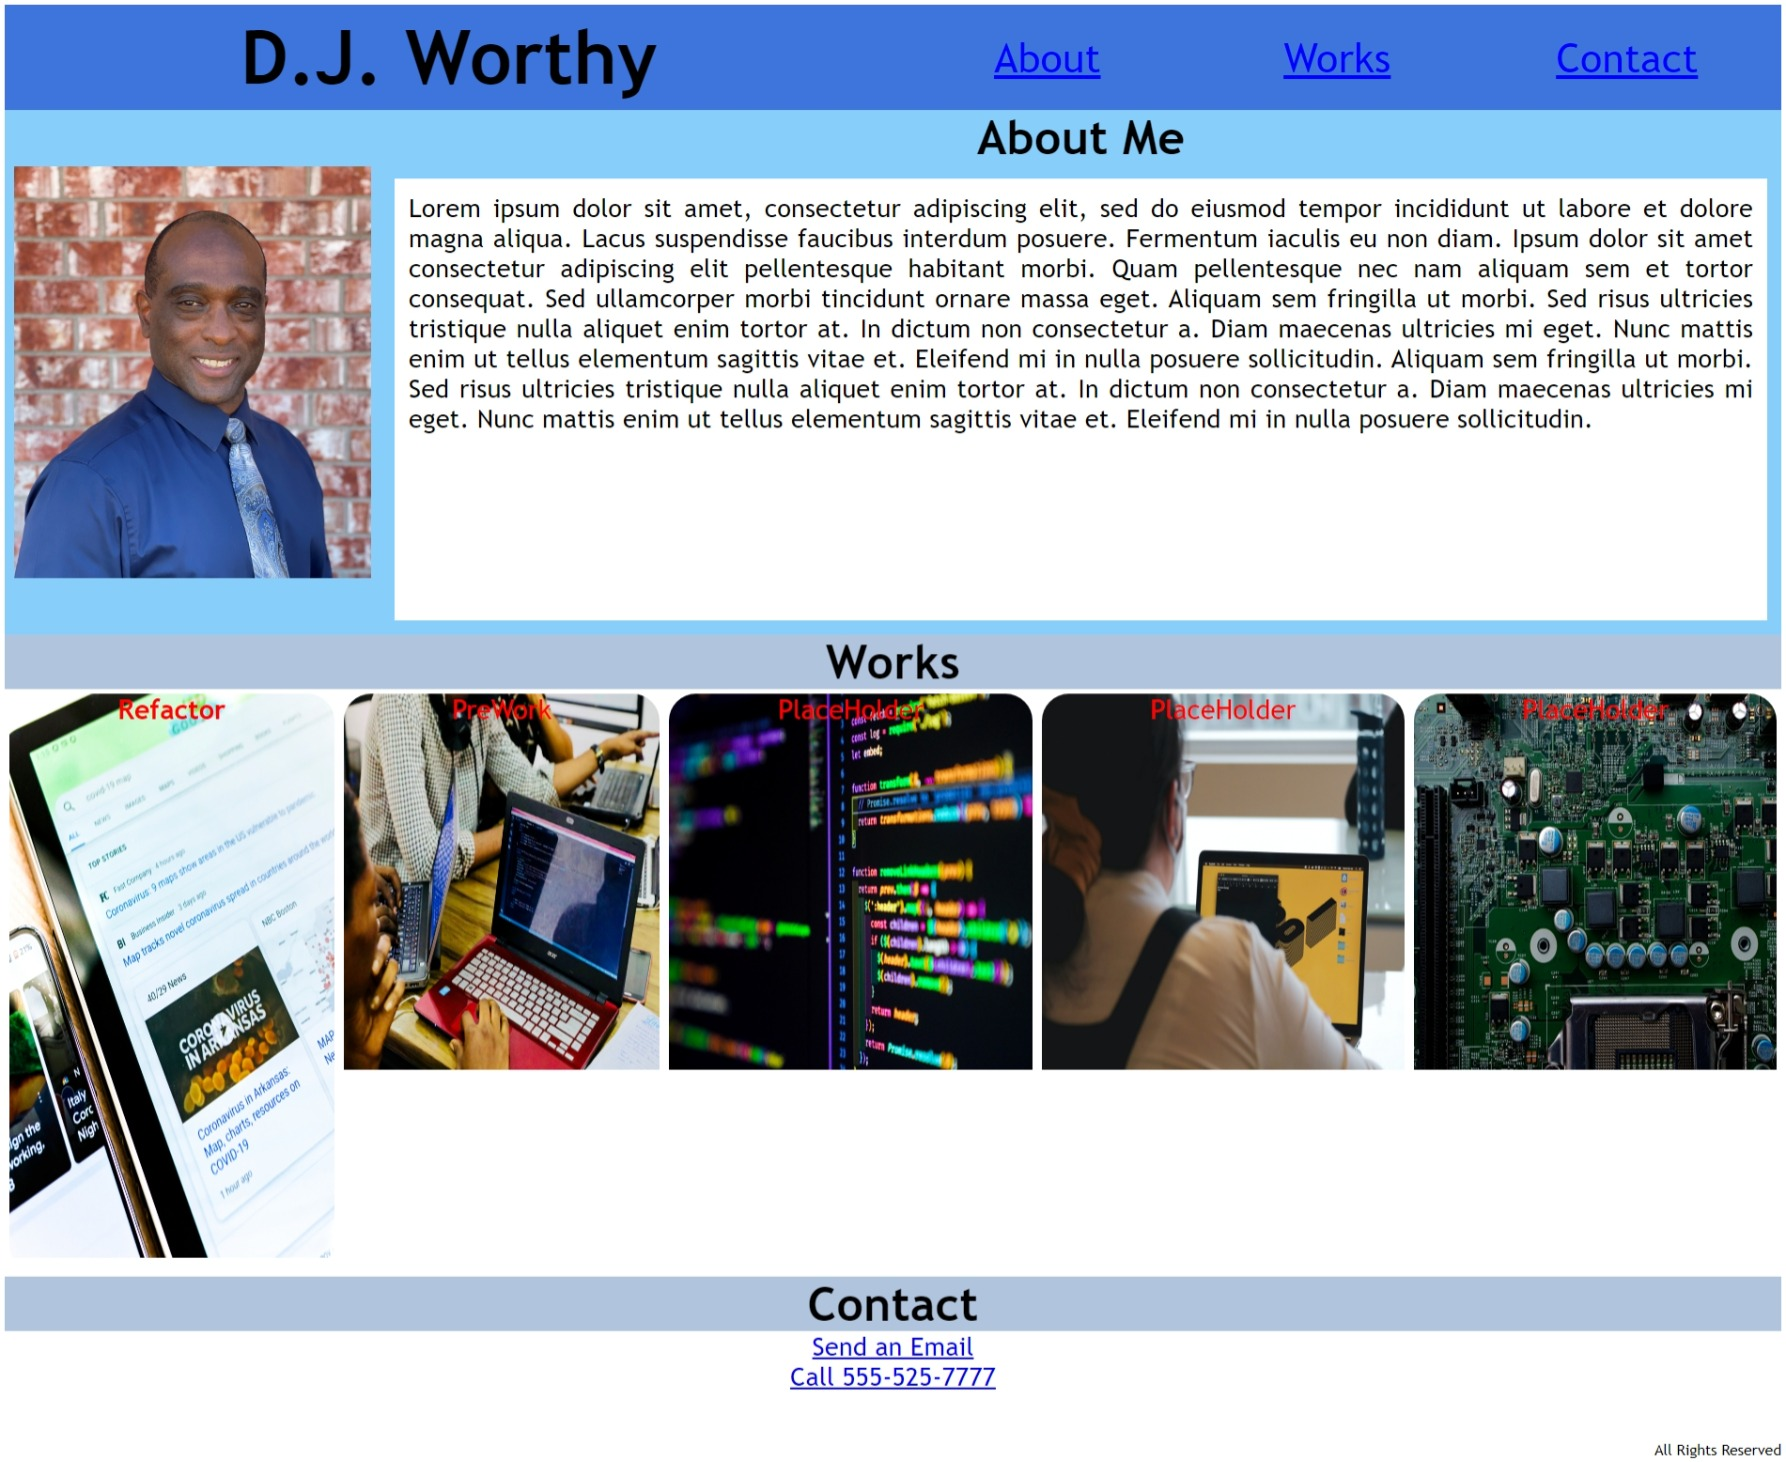
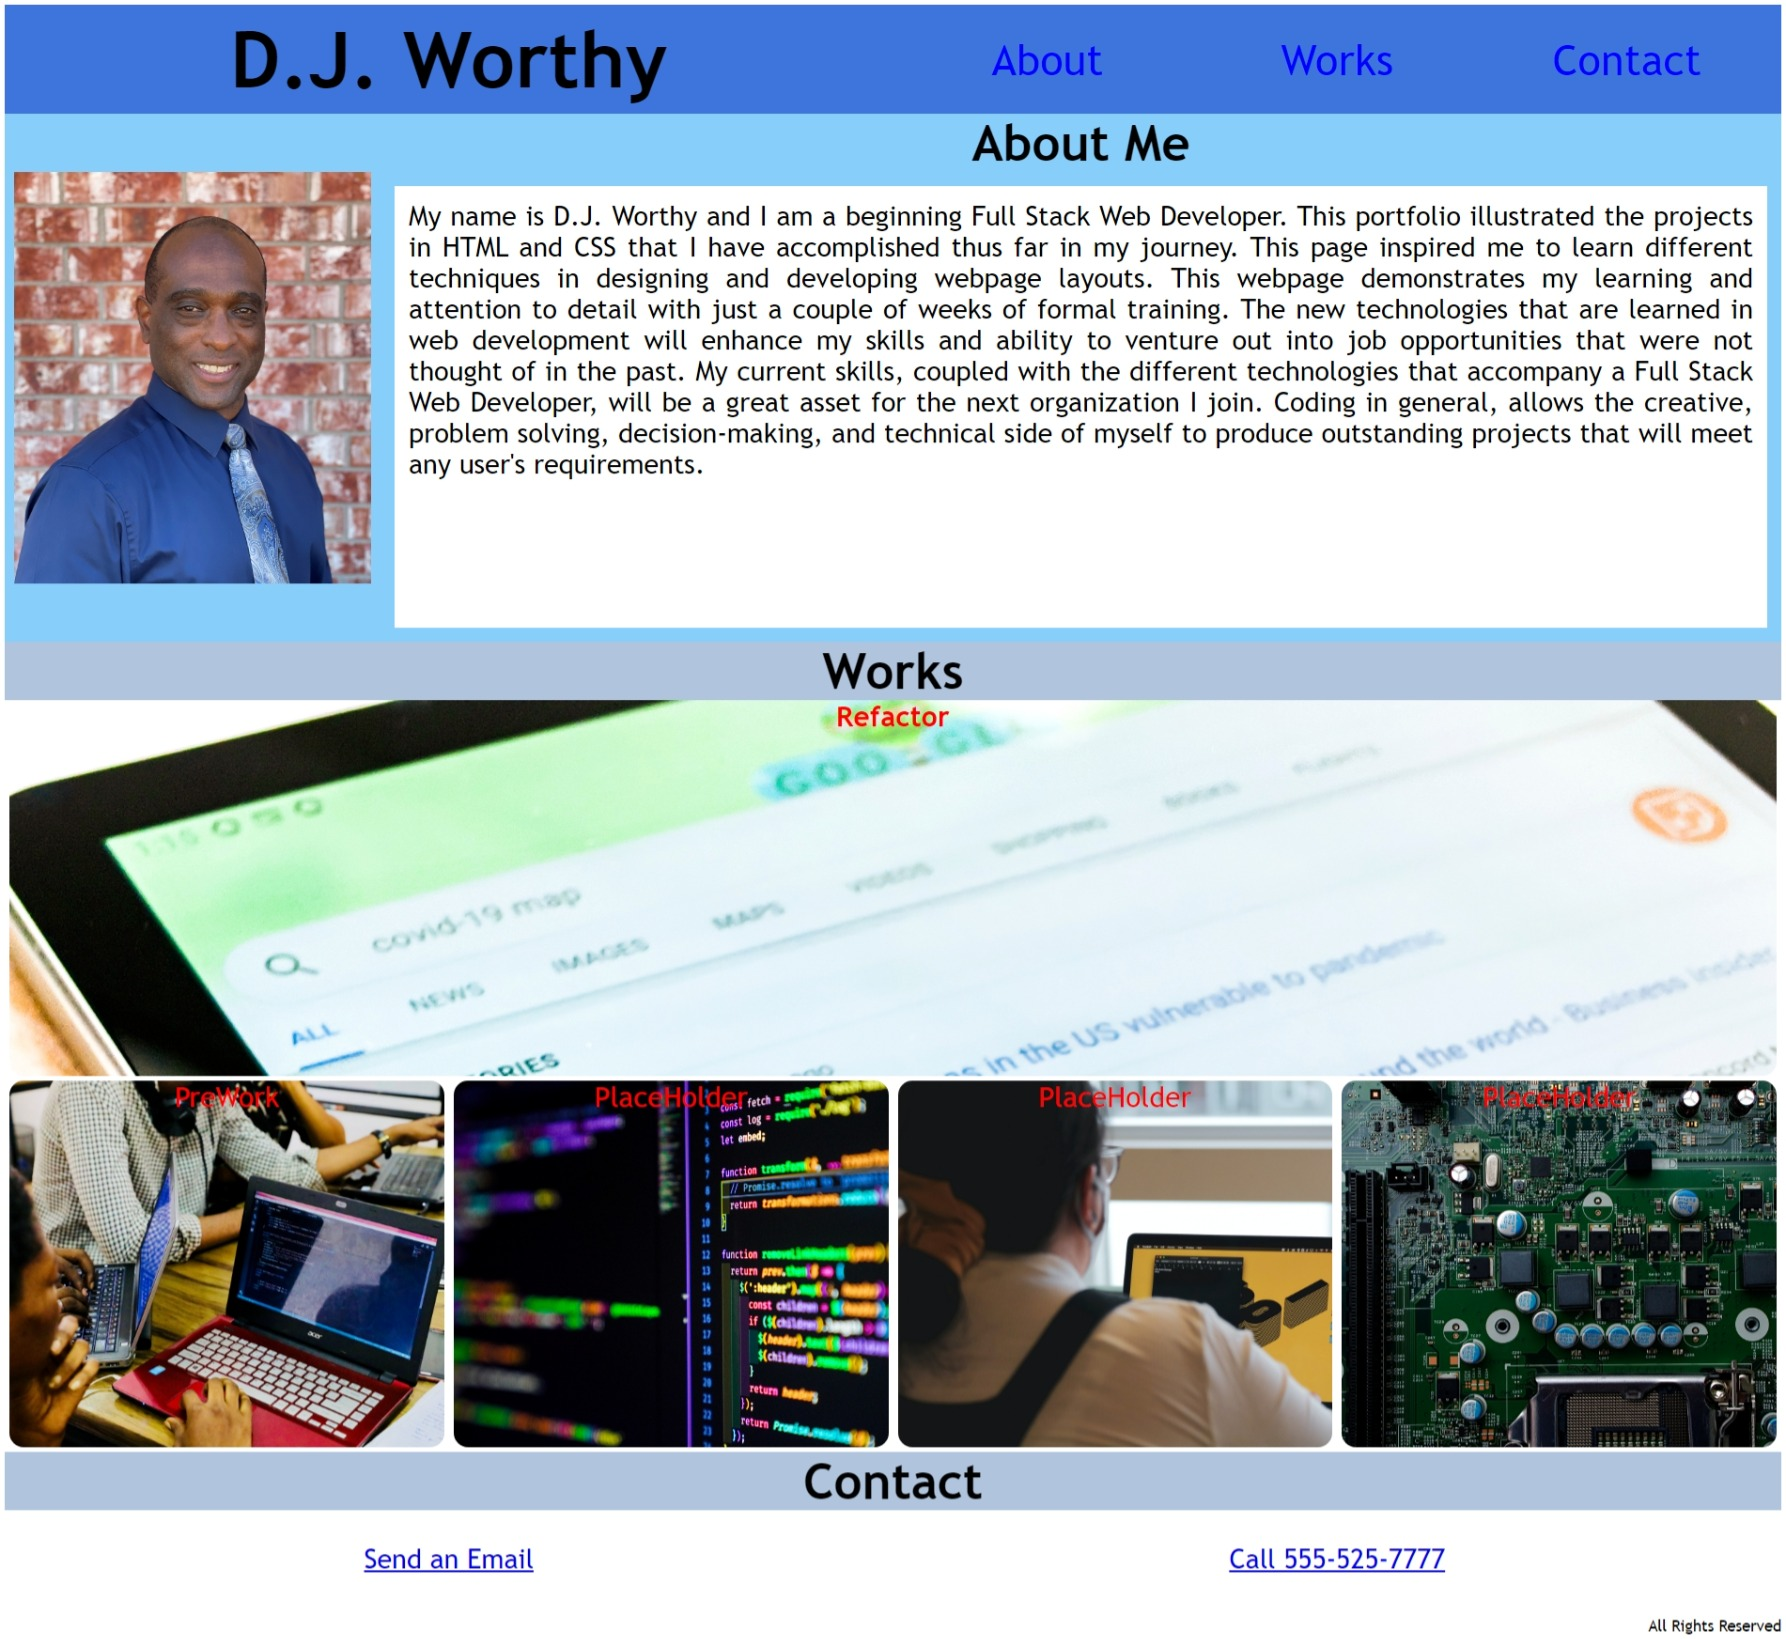
Uploading new screenshot.

diff --git a/index.html b/index.html
@@ -27,18 +27,21 @@
                 <img src="./assets/images/djw96gh.jpg" class="blueshirt" alt="photo of D.J. Worthy in blueshirt">
                 <div class="split"> <!--parent-wrapper to split about me and paragraph to column-->
                     <h2>About Me</h2> <!-- The Lorem ipsum is a placeholder for this section and will remain due to current job restrictions. -->
-                    <p>Lorem ipsum dolor sit amet, consectetur adipiscing elit, sed do eiusmod
-                        tempor incididunt ut labore et dolore magna aliqua. Lacus suspendisse
-                        faucibus interdum posuere. Fermentum iaculis eu non diam.
-                        Ipsum dolor sit amet consectetur adipiscing elit pellentesque
-                        habitant morbi. Quam pellentesque nec nam aliquam sem et tortor consequat.
-                        Sed ullamcorper morbi tincidunt ornare massa eget. Aliquam sem fringilla ut morbi.
-                        Sed risus ultricies tristique nulla aliquet enim tortor at. In dictum non consectetur a.
-                        Diam maecenas ultricies mi eget. Nunc mattis enim ut tellus elementum sagittis vitae et.
-                        Eleifend mi in nulla posuere sollicitudin. Aliquam sem fringilla ut morbi.
-                        Sed risus ultricies tristique nulla aliquet enim tortor at. In dictum non consectetur a.
-                        Diam maecenas ultricies mi eget. Nunc mattis enim ut tellus elementum sagittis vitae et.
-                        Eleifend mi in nulla posuere sollicitudin.
+                    <p>
+                        My name is D.J. Worthy and I am a beginning Full Stack Web Developer.
+                        This portfolio illustrated the projects in HTML and CSS that I have
+                        accomplished thus far in my journey.  This page inspired me to
+                        learn different techniques in designing and developing webpage
+                        layouts.  This webpage demonstrates my learning and attention
+                        to detail with just a couple of weeks of formal training.
+                        The new technologies that are learned in web development
+                        will enhance my skills and ability to venture out into
+                        job opportunities that were not thought of in the past.  My current skills,
+                        coupled with the different technologies that accompany a Full
+                        Stack Web Developer, will be a great asset for the next organization I
+                        join.  Coding in general, allows the creative, problem solving, 
+                        decision-making, and technical side of myself to produce outstanding 
+                        projects that will meet any user's requirements.
                     </p>
                 </div>
             </article>
